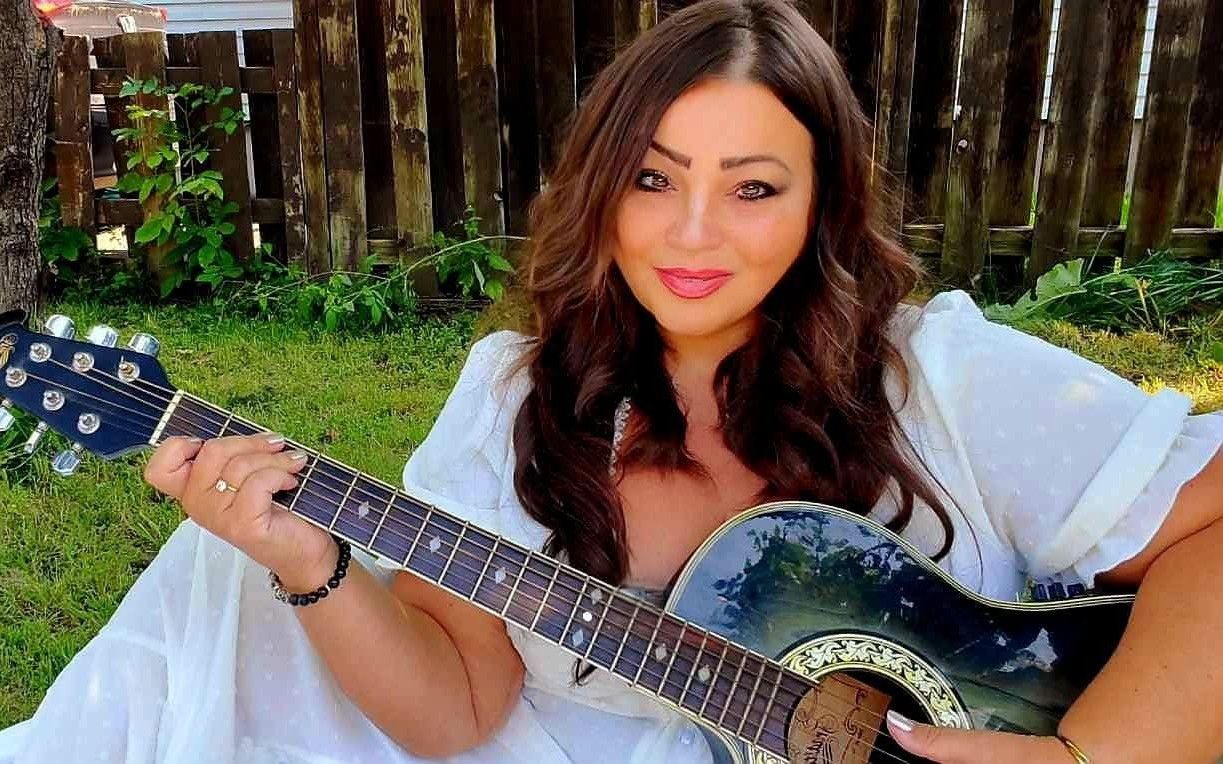
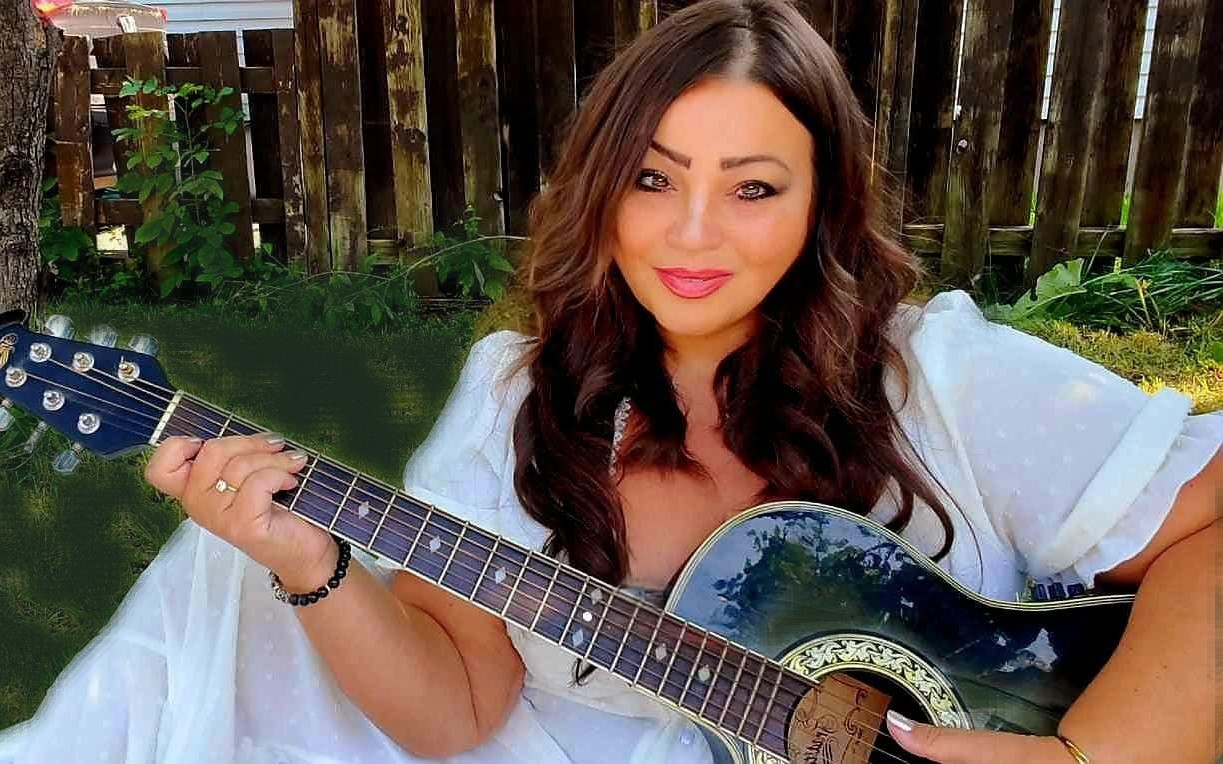
Bloc Guitare nettoyé selon les captures et la dictée de Cindy : (1) la cowgirl portée complètement à gauche et la photo recadrée serré sur elle — les valises et une partie du divan sont coupées, son visage et son corps enfin visibles; (2) la photo du pommier reste au milieu mais la verdure qui lui c

diff --git a/index.html b/index.html
@@ -6652,7 +6652,7 @@
           </article>
           <article class="timeline-row" style="position: relative; z-index: 0;" data-slider-box>
             <img class="dream-layer" data-base-opacity="0.34" src="assets/cindy-cowboy-studio-nb.jpg" alt="" aria-hidden="true" style="position: absolute; left: 2px; top: 50%; transform: translateY(-50%); height: 97%; width: auto; z-index: -1; opacity: .34; -webkit-mask-image: radial-gradient(ellipse at center, black 52%, transparent 97%); mask-image: radial-gradient(ellipse at center, black 52%, transparent 97%);" />
-            <img class="dream-layer" data-base-opacity="0.34" src="assets/cindy-pommier-guitare.jpg" alt="" aria-hidden="true" style="position: absolute; left: 50%; top: 50%; transform: translate(-50%, -50%); height: 94%; width: auto; z-index: -1; opacity: .34; -webkit-mask-image: radial-gradient(ellipse at center, black 50%, transparent 97%); mask-image: radial-gradient(ellipse at center, black 50%, transparent 97%);" /><img class="dream-layer" data-base-opacity="0.34" src="assets/cindy-guitare-micro-rode.jpg" alt="" aria-hidden="true" style="position: absolute; right: 2px; top: 50%; transform: translateY(-50%); height: 97%; width: auto; z-index: -1; opacity: .34; -webkit-mask-image: radial-gradient(ellipse at center, black 52%, transparent 97%); mask-image: radial-gradient(ellipse at center, black 52%, transparent 97%);" />
+            <img class="dream-layer" data-base-opacity="0.34" src="assets/cindy-pommier-guitare.jpg" alt="" aria-hidden="true" style="position: absolute; left: 50%; top: 50%; transform: translate(-50%, -50%); height: 116%; width: auto; z-index: -1; opacity: .34; -webkit-mask-image: radial-gradient(ellipse at center, black 50%, transparent 97%); mask-image: radial-gradient(ellipse at center, black 50%, transparent 97%);" /><img class="dream-layer" data-base-opacity="0.34" src="assets/cindy-guitare-micro-rode.jpg" alt="" aria-hidden="true" style="position: absolute; right: 2px; top: 50%; transform: translateY(-50%); height: 97%; width: auto; z-index: -1; opacity: .34; -webkit-mask-image: radial-gradient(ellipse at center, black 52%, transparent 97%); mask-image: radial-gradient(ellipse at center, black 52%, transparent 97%);" />
             <div class="timeline-year" aria-hidden="true"></div>
             <div class="timeline-copy fade-copy"><h3 id="guitare">Chanteuse, gratteuse de guitare.</h3><p>J’aurais voulu vivre de ma musique, mais les bills, faut que ça se paye : mon gagne-pain, ça a toujours été mon travail à temps plein, avec deux enfants à élever. Ma musique, c’était ma passion — un sideline qui trouvait sa place quand le temps le permettait : des spectacles ici et là, surtout l’été dans les festivités acadiennes, et aux fêtes de la Saint-Jean (au Québec), pis du chant à l’église.</p>
 </div>
